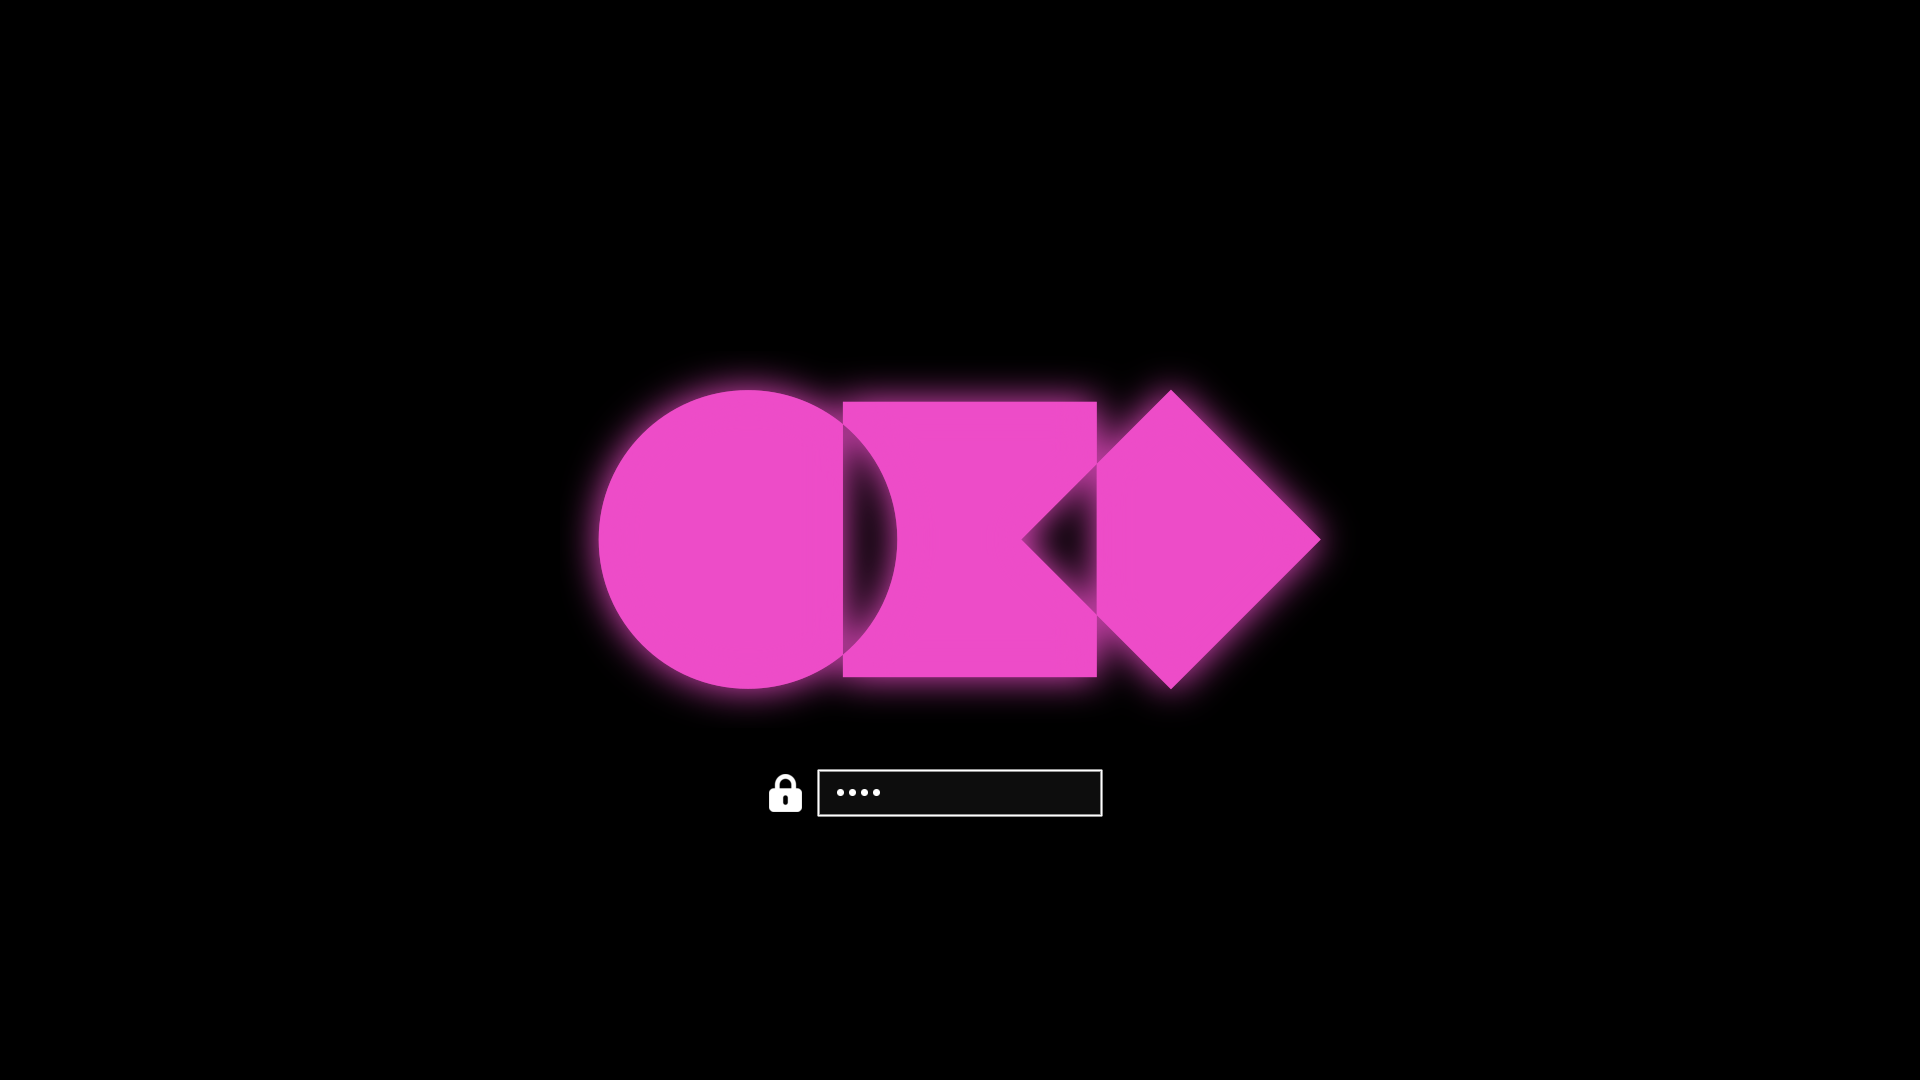
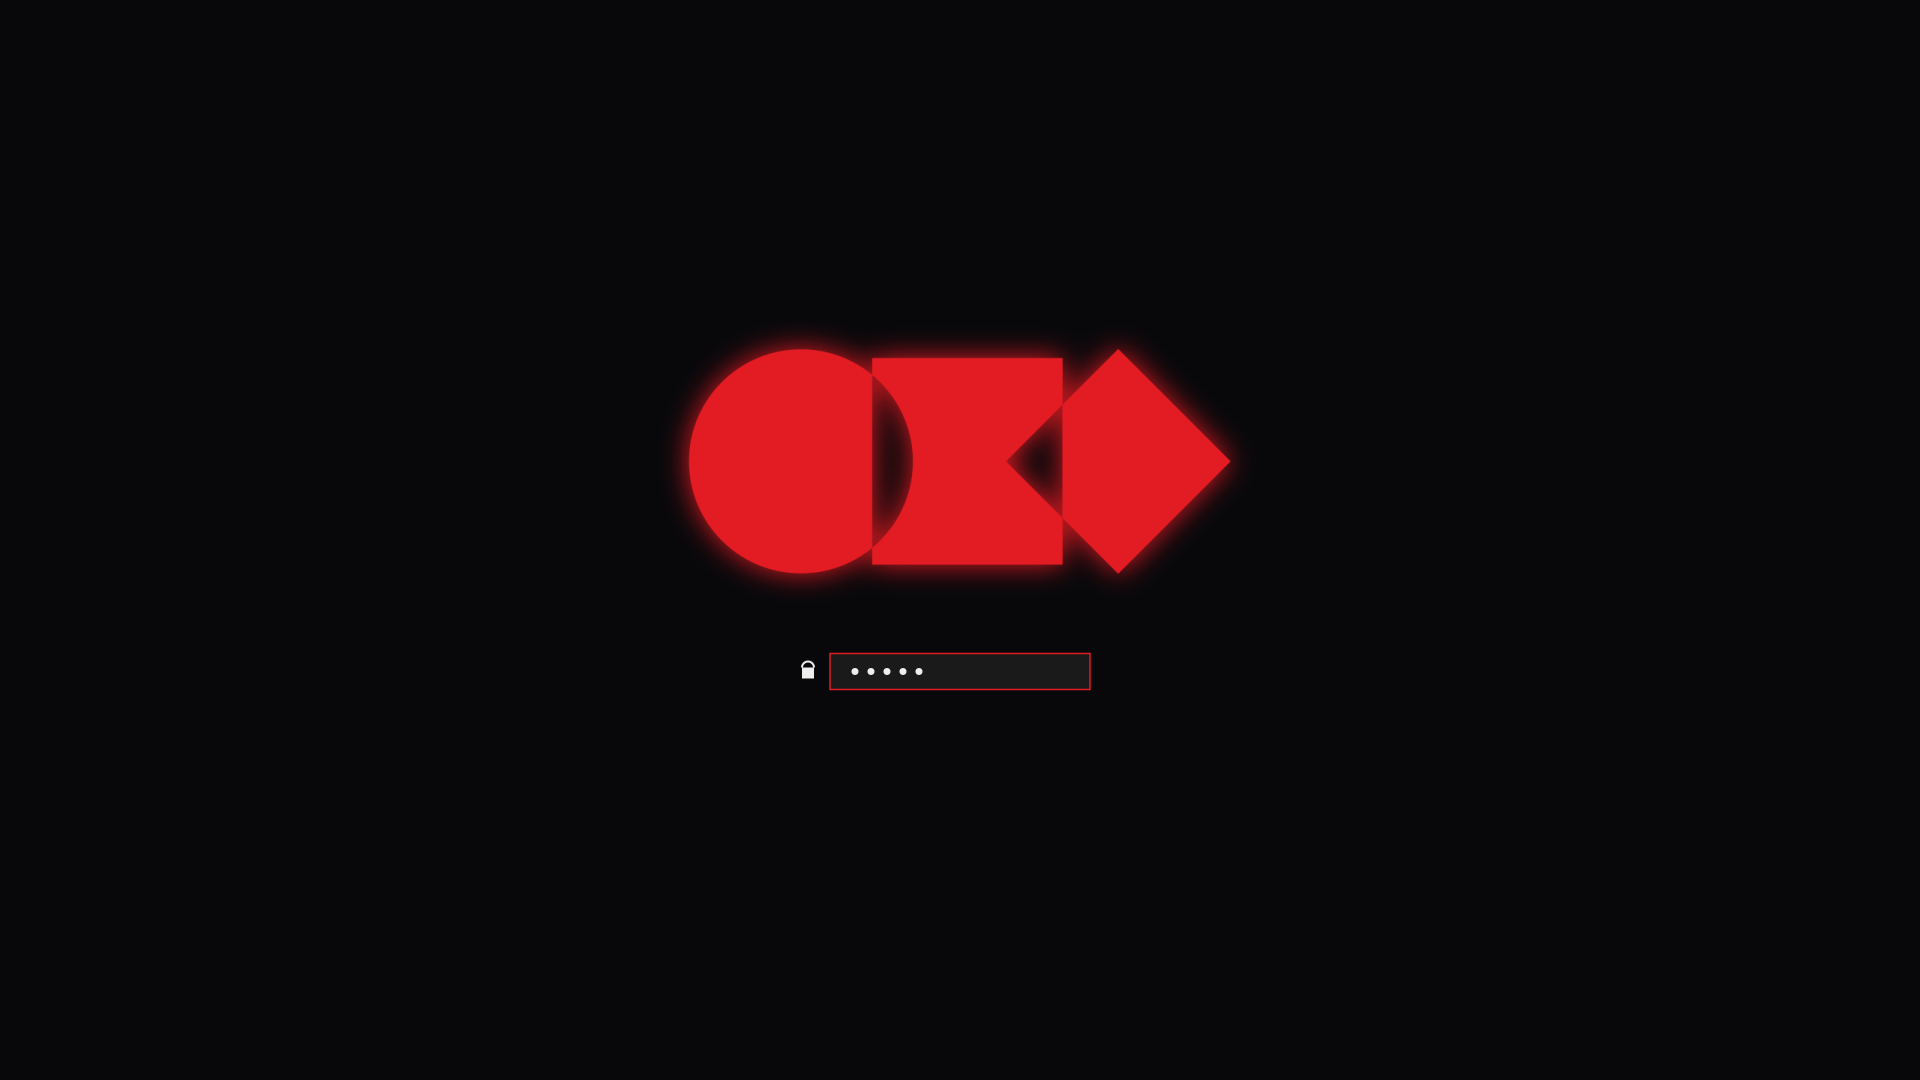
feat(theme): agregar tema claro lizarbe-light, wallpapers CAD/isometricos y soporte completo en scripts

Changed region(s): [[0.2812, 0.3056, 0.7188, 0.6722], [0.375, 0.7028, 0.4688, 0.7639]]

diff --git a/README.md b/README.md
@@ -3,7 +3,7 @@
 Configuración completa para un sistema **Omarchy** recién instalado, orientada a la **creatividad visual, modelado/construcción espacial, desarrollo de software y ofimática**.
 
 Incluye:
-- **Tema nativo Lizarbe**: Colores, fondos pixel art, bordes e iconos/texto de la barra en rojo de forma nativa.
+- **Temas nativos Lizarbe (Dark & Light)**: Variantes completas en modo oscuro (fondo OLED / charcoal) y modo claro (papel milimetrado y dibujo técnico CAD / Whiteprint), con wallpapers en pixel art, bordes geométricos e indicadores en rojo de forma nativa.
 - **Pack de Iconos Lizarbe-Red**: Iconos personalizados que alternan fluidamente con cualquier tema de Omarchy.
 - **Tema GTK Darky**: Preinstalado en el sistema como opción para activarlo libremente mediante `nwg-look`.
 - **Branding propio y Terminal**: Logo ASCII personalizado en Fastfetch, starship prompt y soporte dinámico de terminales.
@@ -57,8 +57,10 @@ bash scripts/install-core.sh
 
 ## 📦 Suites y Aplicaciones Incluidas
 
-### 1. Base del Sistema & Tema Lizarbe (`scripts/install-core.sh`)
-* **Tema Omarchy `Lizarbe`**: Instalado en la raíz del sistema en `/usr/share/omarchy/themes/` con wallpapers pixel art e iconos de barra en rojo
+### 1. Base del Sistema & Temas Lizarbe (`scripts/install-core.sh`)
+* **Temas Omarchy `Lizarbe` y `Lizarbe Light`**: Instalados en la raíz del sistema en `/usr/share/omarchy/themes/` con wallpapers de dibujo técnico/pixel art, configuración modular para Quickshell (`shell.bar`, `shell.menu`, `shell.launcher`, `shell.lock`) y colores de sintaxis con alto contraste.
+  * Cambiar a modo oscuro: `omarchy theme set lizarbe`
+  * Cambiar a modo claro: `omarchy theme set lizarbe-light`
 * **Pack de iconos `Lizarbe-Red`**: Instalado globalmente en `/usr/share/icons/`
 * **Zen Browser**: Navegador web predeterminado configurado nativamente con Omarchy
 * **Tema GTK `Darky`**: Instalado a nivel de sistema en `/usr/share/themes/` (opcional: actívalo abriendo `nwg-look` > Widget > `Darky`)
